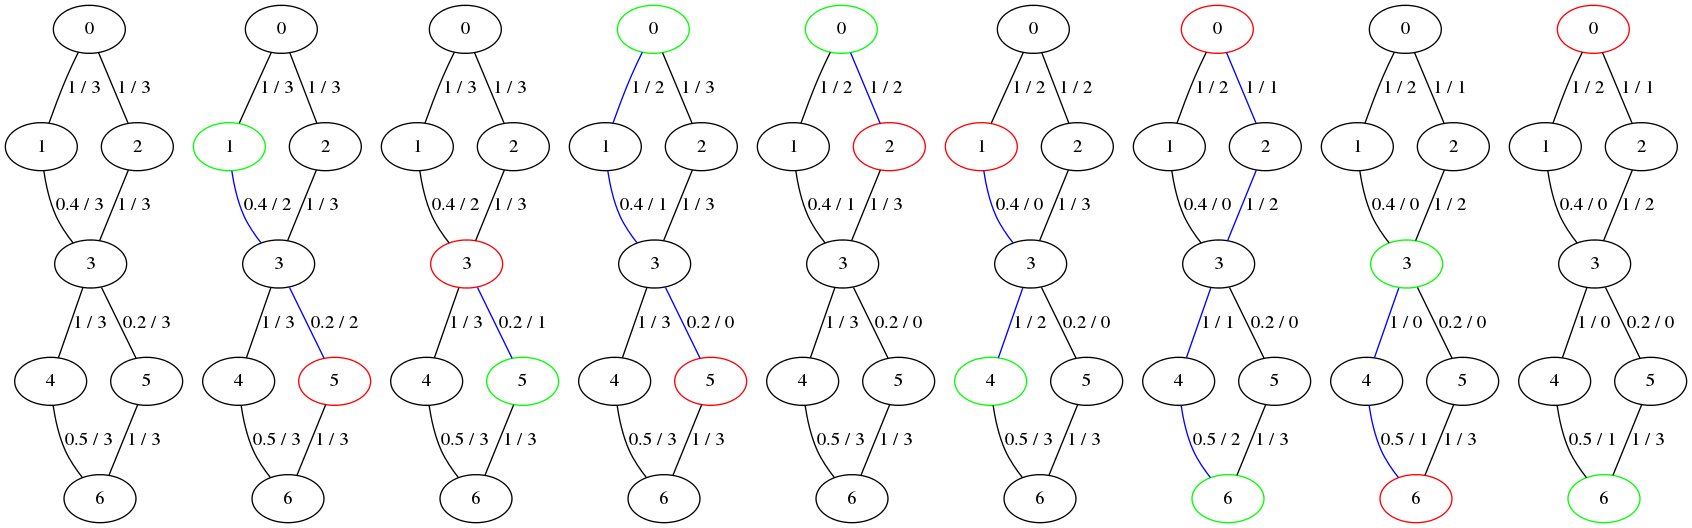
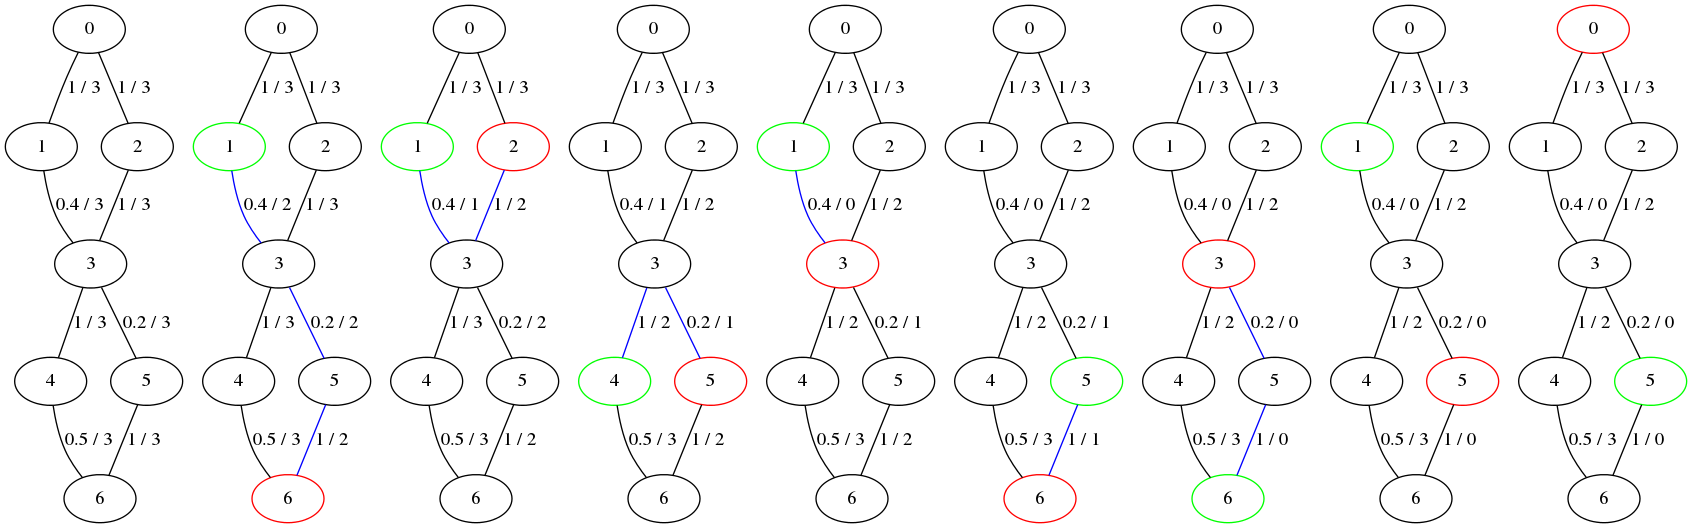
alloc function works

diff --git a/pathfinder.py b/pathfinder.py
@@ -28,7 +28,7 @@ number_of_demands		= 8
 path_selection_criterion	= 'lat'
 graph_type			= 'eight'
 bw_variants			= [1]
-lat_variants			= [10]
+lat_variants			= [4]
 
 ####################################################################
 ######################## main program ##############################
@@ -44,12 +44,8 @@ print chr(27) + "[2J"
 acceptance_rate_pool=[]
 for j in range(repeats):
 
-	# dict for all paths found and selected ever
-	path_book={}
+	# dict for all selected paths
 	selected_paths_book={}
-
-	# dict for all paths found ever
-	path_book={}
 
 	# get working copy of graph
 	G_updated=copy.deepcopy(G)
@@ -61,8 +57,7 @@ for j in range(repeats):
 	# plot original graph
 	plot_pngs+=gf.plot_graphviz(G_updated,None,None,plot_counter)+' '
 	plot_counter+=1
-	acceptance_counter=0
-	
+		
 	# create all demands
 	d_list=[]
 	demand_dict={}
@@ -72,46 +67,16 @@ for j in range(repeats):
 		d_list.append(temp_dem)
 		demand_dict[(temp_dem.get_source(),temp_dem.get_target())]=k
 
-	
 	i = 0
 	while(True):
 		print '\n \n########### \n'+str(i)+'th iteration'
-	
-		# copy of graph for pruning and updating
-		G_prune=G_updated
-		G_updated=copy.deepcopy(G_prune)
 
-		print '\nDemand: '
-		print 'Path to find: '+str(d_list[i].source)+' ==> '+str(d_list[i].target)
-		print "bw req: "+str(d_list[i].bw)
-		print "lat req: "+str(d_list[i].lat)
-
-		# pruning
-		G_prune=gf.prune_bw(G_prune, d_list[i].get_bw())
-
-		# path finding
-		paths_pack = gf.shortest_p(G_prune,d_list[i].get_source(),d_list[i].get_target(),d_list[i].get_lat())
-		print '\nPaths (with lat.) found: \n'+str(paths_pack)
-
-		if paths_pack!=[] and paths_pack!=None:
-			# store found paths in dictionary book
-			path_book[(d_list[i].get_source(),d_list[i].get_target())]=paths_pack
-			# store found paths in demand
-			d_list[i].set_paths_pack(paths_pack)
-			# path selection
-			selected_path = gf.select_path(paths_pack, path_selection_criterion)
-			# store selected path in dictionary book
-			selected_paths_book[(d_list[i].get_source(),d_list[i].get_target())]=selected_path
-			# store selected path in demand
-			d_list[i].set_allocated()
-			d_list[i].set_path(selected_path)
-			# update graph
-			G_updated=gf.update_edges(G_updated, selected_path, d_list[i].get_bw())
-			# plot the chosen path
-			if plot_enable:
-				plot_pngs+=gf.plot_graphviz(G_updated,d_list[i],selected_path,plot_counter)+' '
-			# count the allocation
-			acceptance_counter+=1
+		# allocate path in graph	
+		[G_updated, paths_pack, selected_path, selected_paths_book]=gf.alloc(G_updated,d_list[i],path_selection_criterion, selected_paths_book)
+		
+		# plot the chosen path
+		if plot_enable and selected_path!=[]:
+			plot_pngs+=gf.plot_graphviz(G_updated,d_list[i],selected_path,plot_counter)+' '
 		else:
 			print 'no path found, looking now at previous allocations..\n'
 			path_pack_in_empty_graph=gf.shortest_p(G,d_list[i].get_source(),d_list[i].get_target(),d_list[i].get_lat())
@@ -124,11 +89,12 @@ for j in range(repeats):
 				print 'which would have all the following intersections: '
 				intersect_dict=gf.check_setintersection(optimal_path, selected_paths_book.values())
 				print intersect_dict
-				print 'although the worst one is: '+str(intersect_dict[max(intersect_dict)])
-				worst_intersect = intersect_dict[max(intersect_dict)]
-				print 'therefore please consider rerouting the path from '+str(worst_intersect[0])+' to '+str(worst_intersect[-1])
-				to_reroute=demand_dict[worst_intersect[0],worst_intersect[-1]]
-				print 'which would be demand nr: '+str(to_reroute)
+				if intersect_dict!={}:
+					print 'although the worst one is: '+str(intersect_dict[max(intersect_dict)])
+					worst_intersect = intersect_dict[max(intersect_dict)]
+					print 'therefore please consider rerouting the path from '+str(worst_intersect[0])+' to '+str(worst_intersect[-1])
+					to_reroute=demand_dict[worst_intersect[0],worst_intersect[-1]]
+					print 'which would be demand nr: '+str(to_reroute)
 				# nehme den betroffenen demand, setze ihn auf unallocated
 				# update den graphen mit minus bw
 				# alloziere den neuen demand?
@@ -140,11 +106,10 @@ for j in range(repeats):
 		i+=1
 		if i==number_of_demands:
 			break
-
-		
+	
 	# print out result stats
 	print '\n\n\n%%%%% END STATS %%%%%'
-	#print 'path_book:\n'+str(path_book)
+	acceptance_counter = sum([d.x for d in d_list])
 	print 'Allocated demands: '+str(acceptance_counter)
 	print 'Rejected demands: '+str(number_of_demands-acceptance_counter)
 	print 'Total demands: '+str(number_of_demands)

diff --git a/graphFunctions.py b/graphFunctions.py
@@ -13,6 +13,45 @@ import operator
 ########################## functions ###############################
 ####################################################################
 
+# allocates a paths
+def alloc(G, d, path_selection_criterion, selected_paths_book):
+	# copy of graph for pruning and updating
+	G_prune=copy.deepcopy(G)
+	G_updated=copy.deepcopy(G)
+
+	path_pack=[]
+	selected_path=[]
+
+	print '\nDemand: '
+	print 'Path to find: '+str(d.source)+' ==> '+str(d.target)
+	print "bw req: "+str(d.bw)
+	print "lat req: "+str(d.lat)
+
+	# pruning
+	G_prune=prune_bw(G_prune, d.get_bw())
+
+	# path finding
+	paths_pack = shortest_p(G_prune,d.get_source(),d.get_target(),d.get_lat())
+	print '\nPaths (with lat.) found: \n'+str(paths_pack)
+
+	if paths_pack!=[] and paths_pack!=None:
+		# store found paths in demand
+		d.set_paths_pack(paths_pack)
+		# path selection
+		selected_path = select_path(paths_pack, path_selection_criterion)
+		# store selected path in demand
+		d.set_allocated()
+		d.set_path(selected_path)
+		# update graph
+		G_updated=update_edges(G_updated, selected_path, d.get_bw())
+		alloc_counter=1	
+		# store selected path in dictionary book
+		selected_paths_book[(d.get_source(),d.get_target())]=selected_path
+
+
+	return [G_updated, paths_pack, selected_path, selected_paths_book]
+
+
 # returns shortest paths that fit lat req.
 def shortest_p(G,s,t,lat):
 	if nx.has_path(G,s,t)==True:
@@ -66,7 +105,7 @@ def prune_bw(G, bandwidth):
 			bw=eattr['bw']
 			if bw<bandwidth:
 				G.remove_edge(n,nbr)
-				print 'removed edge: '+str(n)+','+str(nbr)
+				print 'prune edge: '+str(n)+','+str(nbr)
 	return G
 
 # returns link utilization
@@ -83,7 +122,7 @@ def link_util(G,F):
 		        end_bw.append(eattr['bw'])
 
 	usage=[]
-	for i in end_bw:
+	for i in range(len(end_bw)):
 		if end_bw[i]!=orig_bw[i]:
 			available_bw=float(orig_bw[i])
 			used_bw=float(orig_bw[i])-float(end_bw[i])

diff --git a/demand.py b/demand.py
@@ -17,7 +17,7 @@ class demand:
 	self.lat = None
 	self.bw_variants = bw_variants
 	self.lat_variants = lat_variants
-	self.x=False
+	self.x=0
 	self.path=[]
 	self.paths_pack=[]
     def set_source(self, s):
@@ -37,9 +37,9 @@ class demand:
     def get_lat(self):
 	return self.lat
     def set_allocated(self):
-	self.x=True
+	self.x=1
     def set_unallocated(self):
-	self.x=False
+	self.x=0
     def set_path(self,path2set):
 	self.path=path2set
     def get_path(self):
